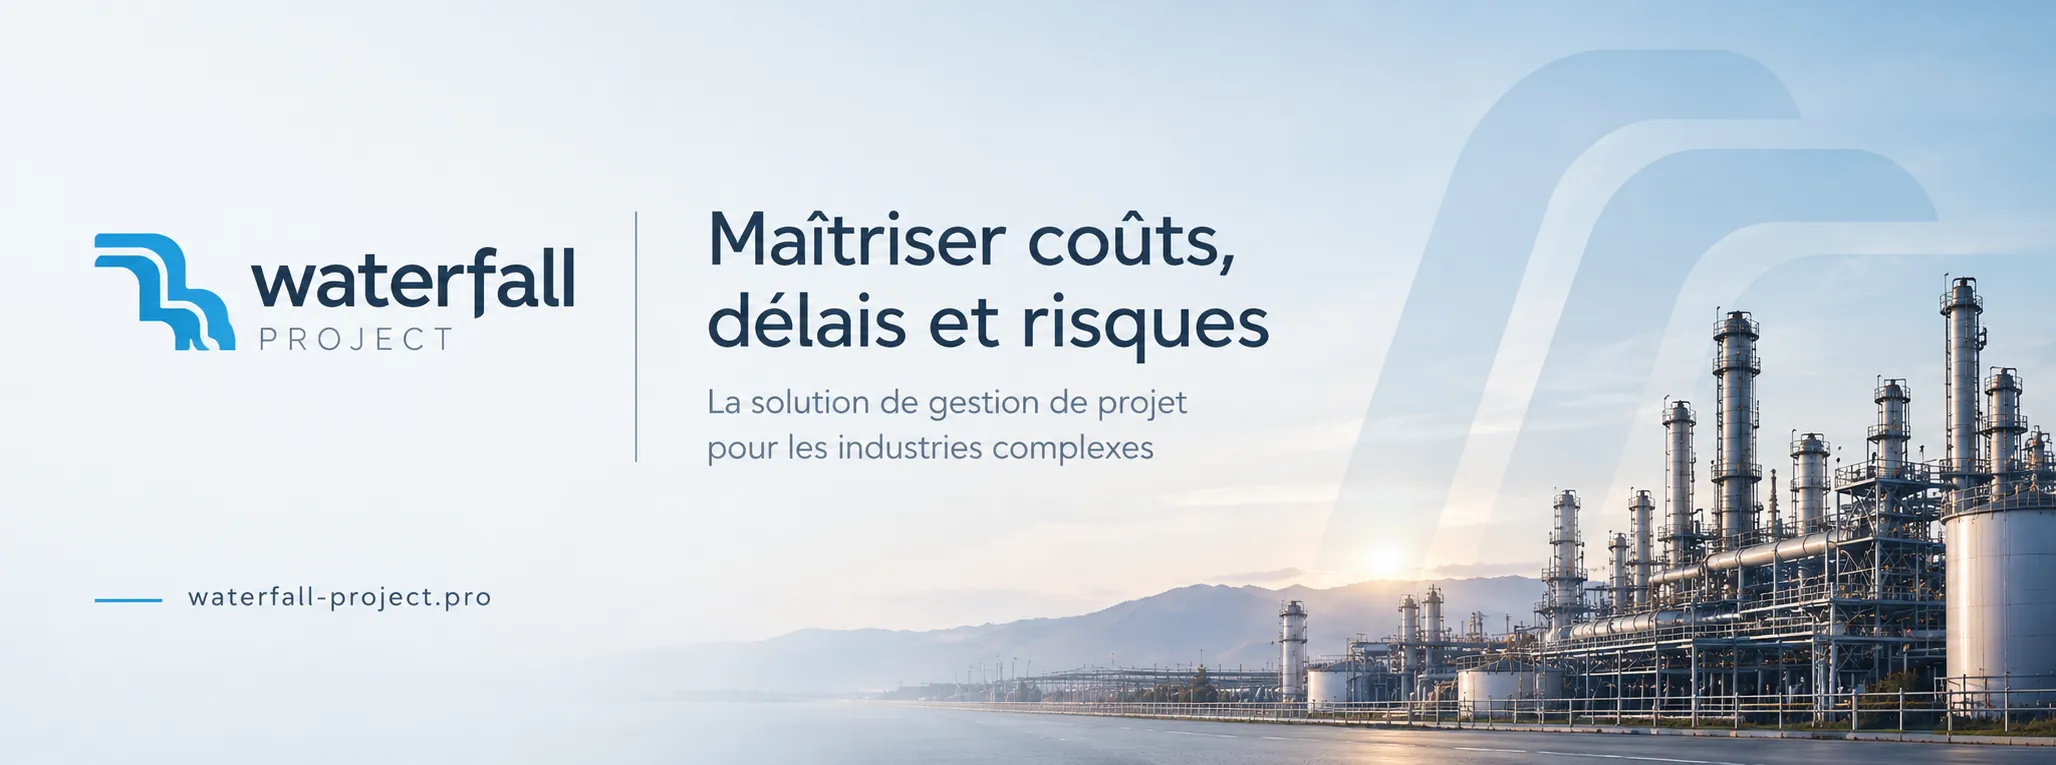
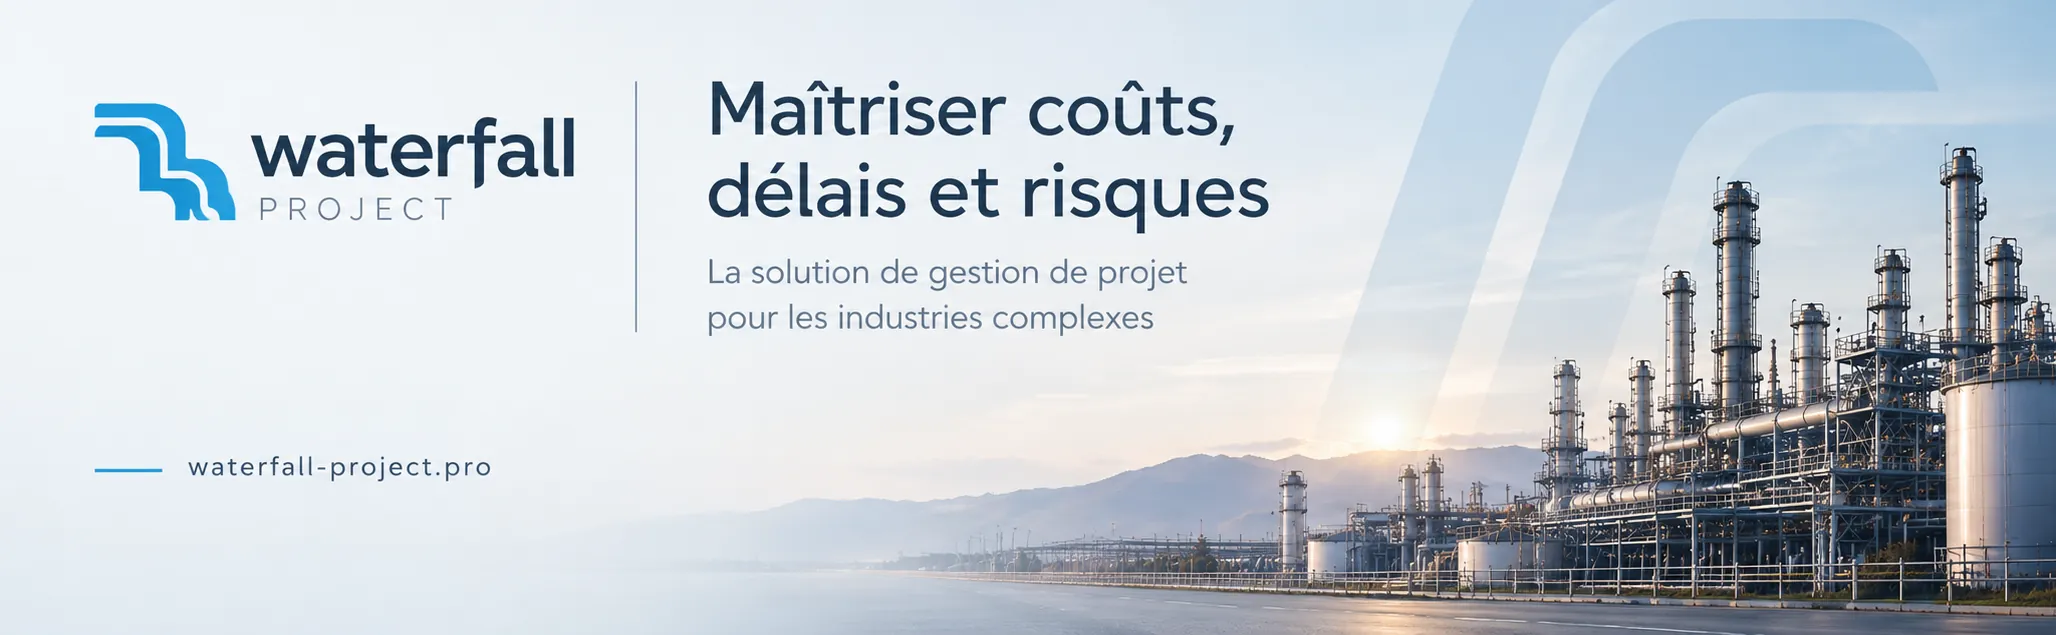
La bannière de la page de connexion sans son ciel vide, la carte remontée
La bannière perd le sixième vide de son haut ; la carte commence sous le
slogan : la page tient sans défiler sur un écran de 1366 × 768.

Claude-Session: https://claude.ai/code/session_01BPYgwmamyaDAkXemdkKEUH

diff --git a/deploy/keycloak/themes/waterfall/login/resources/css/waterfall.css b/deploy/keycloak/themes/waterfall/login/resources/css/waterfall.css
@@ -262,10 +262,10 @@ body#keycloak-bg {
 /*
  * The banner (docs/assets/waterfall-banniere.png): across the top of the page, its logo and its
  * line left clear, the card over its lower part; it fades into the background of the page. Its
- * height follows its width (765 / 2056). On a narrow screen, the refinery alone, as a strip.
+ * height follows its width (635 / 2056, its empty sky cut off). On a narrow screen, the refinery alone, as a strip.
  */
 :root {
-  --wf-banner-height: calc(100vw * 765 / 2056);
+  --wf-banner-height: calc(100vw * 635 / 2056);
   --wf-banner-veil: transparent;
 }
 
@@ -285,7 +285,7 @@ body#keycloak-bg {
 @media (min-width: 48rem) {
   .pf-v5-c-login {
     align-items: start;
-    padding-block-start: min(calc(var(--wf-banner-height) * 0.64), 34rem);
+    padding-block-start: min(calc(var(--wf-banner-height) * 0.56), 26rem);
     padding-block-end: 3rem;
   }
 
